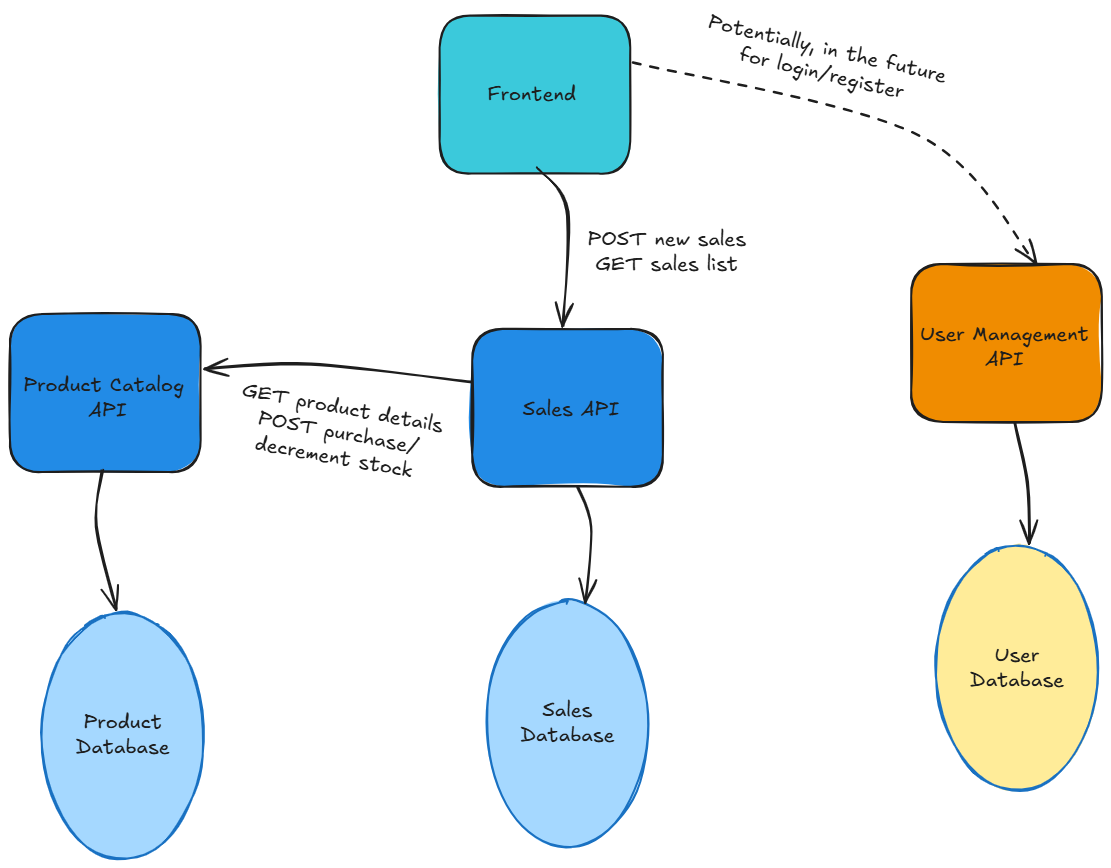
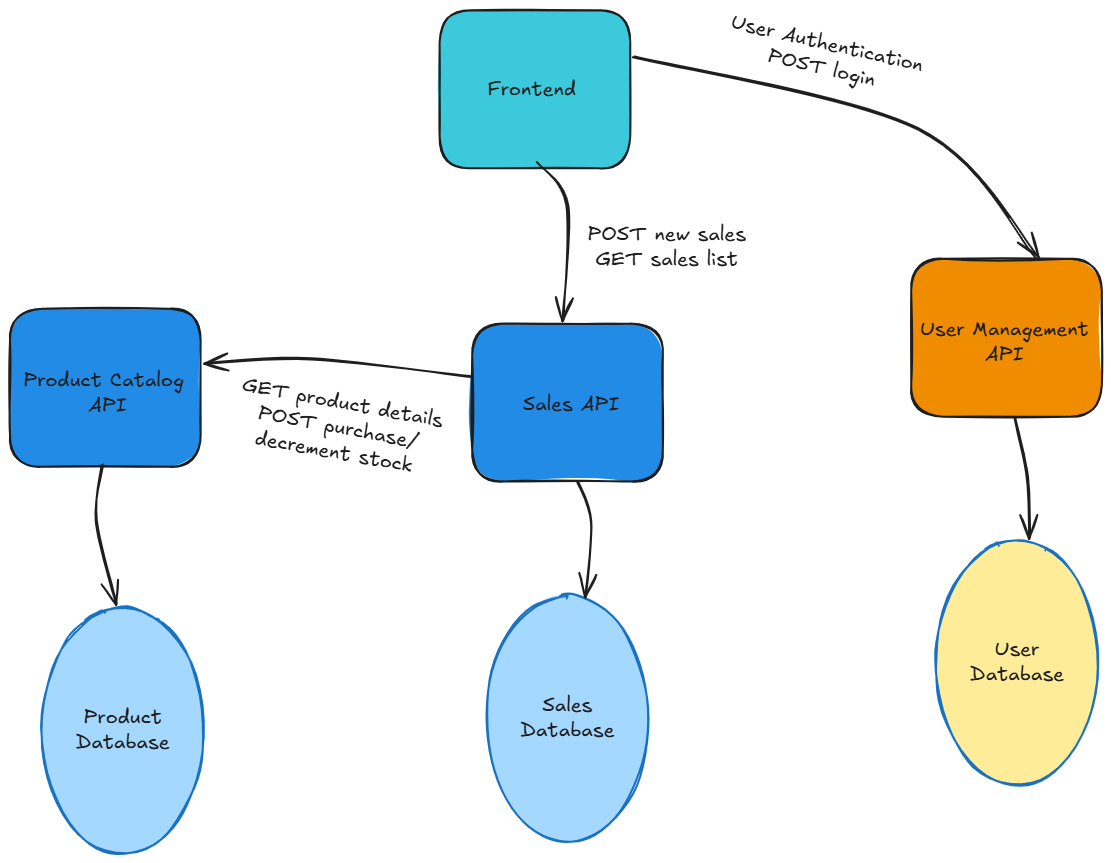
Integrating User Authentication

diff --git a/README.md b/README.md
@@ -21,23 +21,23 @@ Here's a high-level view of how these services interact:
 
 ## Individual Projects
 
-Each project in this portfolio is a standalone repository, developed with a focus on best practices, clean architecture, and specific functionalities.
+Each project in this prototype is a standalone repository, developed with a focus on best practices, clean architecture, and specific functionalities.
 
 ### 1. User Management RESTful API (Flask Backend)
 
 * **Repository:** [User Management API GitHub Repo](https://github.com/m-arifin-ilham/User-Management-API)
 
-* **Description:** A secure and scalable backend API for managing user accounts. It features robust user registration, login with JWT access and refresh tokens, role-based authorization, and secure password management. This API serves as the central authentication and user profile service for the entire e-commerce ecosystem.
+* **Description:** A secure and scalable backend API for managing user accounts. It features robust user registration, login with JWT access and refresh tokens, role-based authorization, and secure password management. This API serves as the central authentication and user profile service for the entire e-commerce ecosystem, specifically managing **internal users like branch managers and sales representatives** to enable tracking of individual sales contributions.
 
-* **Key Skills Showcased:** Python, Flask, RESTful APIs, JWT Authentication, API Security, Layered Architecture, SOLID Principles.
+* **Key Skills:** Python, Flask, RESTful APIs, JWT Authentication, API Security, Layered Architecture, SOLID Principles.
 
 ### 2. Product Catalog API (Django Backend)
 
 * **Repository:** [Product Catalog API GitHub Repo](https://github.com/m-arifin-ilham/Product-Catalog-API)
 
-* **Description:** A feature-rich RESTful API built with Django and Django REST Framework (DRF) for managing a comprehensive product catalog. It supports full CRUD operations for products and categories, advanced filtering, dynamic sorting, and basic inventory management (including a custom purchase endpoint). This API provides the core product data for the e-commerce platform.
+* **Description:** A feature-rich RESTful API built with Django and Django REST Framework (DRF) for managing a comprehensive product catalog. It supports full CRUD operations for products and categories, advanced filtering, dynamic sorting, and basic inventory management (including a custom purchase endpoint). Write operations are secured with API Key authentication, while read operations are publicly accessible. Includes auto-generated Swagger/OpenAPI documentation. This API provides the core product data for the e-commerce platform.
 
-* **Key Skills Showcased:** Python, Django, Django REST Framework, ORM, Advanced Filtering & Sorting, API Documentation (drf-yasg).
+* **Key Skills:** Python, Django, Django REST Framework, ORM, Advanced Filtering & Sorting, API Documentation (drf-yasg), API Key Authentication.
 
 ### 3. Simple Sales Tracker (Flask Backend & React Frontend)
 
@@ -45,9 +45,9 @@ Each project in this portfolio is a standalone repository, developed with a focu
 
 * **Backend Repository:** [Sales Tracker Backend GitHub Repo](https://github.com/m-arifin-ilham/Sales-Tracker-Backend)
 
-* **Description:** A full-stack web application that allows users to record new sales and visualize sales data. The Flask backend stores sales records and integrates with the Product Catalog API to decrement stock. The React frontend provides a user-friendly interface for data input and displays interactive charts (total revenue, sales by product) for quick insights.
+* **Description:** A full-stack web application for recording and visualizing sales data. The Flask backend stores sales records, calculates revenue, and securely integrates with both the User Management API (for user authentication) and the Product Catalog API (for inventory updates). The React frontend provides a user-friendly interface for data input, manages user login/logout, handles JWT tokens, and displays interactive charts with a modern UI.
 
-* **Key Skills Showcased:** Python (Flask), React, Full-Stack Development, API Integration, Data Visualization (Recharts), Responsive UI (Tailwind CSS).
+* **Key Skills:** Python (Flask), React, Full-Stack Development, API Integration, Data Visualization (Recharts), Responsive UI (Tailwind CSS), User Authentication (JWT), Token Refresh Logic, Secure Frontend Development.
 
 ## Technologies Across the Portfolio
 
@@ -59,9 +59,9 @@ This portfolio demonstrates versatility across various Python and JavaScript tec
 
 * **Databases:** SQLite (for local development), PostgreSQL (for deployment consideration)
 
-* **Security:** Bcrypt, JWT
+* **Security:** Bcrypt, JWT, API Key Authentication, Token Refresh Mechanism
 
-* **Development Practices:** RESTful API Design, Layered Architecture, SOLID Principles, Test-Driven Development (TDD), Version Control (Git)
+* **Development Practices:** RESTful API Design, Layered Architecture, SOLID Principles, Test-Driven Development (TDD), Version Control (Git), CORS Management.
 
 ## Getting Started with the Ecosystem
 
@@ -81,11 +81,14 @@ This portfolio represents a foundational infrastructure. Future enhancements cou
 
 * Full deployment of all services to a cloud platform (e.g., Render, AWS).
 
-* Integration of the User Management API for user-specific sales tracking and authentication in the Sales Tracker frontend.
+* **Full Customer-Facing E-commerce Storefront:** Implementing a complete shopping cart and checkout process in a **new, dedicated online store frontend**, consuming the Product Catalog API. This would be the public-facing interface where customers browse products, add them to a cart, and complete purchases.
 
-* Implementing a shopping cart and checkout process in the frontend, consuming the Product Catalog API.
+* **User Authentication & Sales Tracking for Customers:** Integration of the User Management API for user-specific sales tracking and authentication in a **new, customer-facing online store frontend**. This would allow individual customers to log in, view their order history, and manage their profiles.
 
 * Adding more advanced analytics and machine learning models for sales forecasting or customer segmentation.
 
+---
+
 *Developed by [Muhammad Arifin Ilham](https://www.linkedin.com/in/arifin-ilham-at-ska/)*
-*Current Date: August 9, 2025
+
+*Current Date: August 9, 2025*
